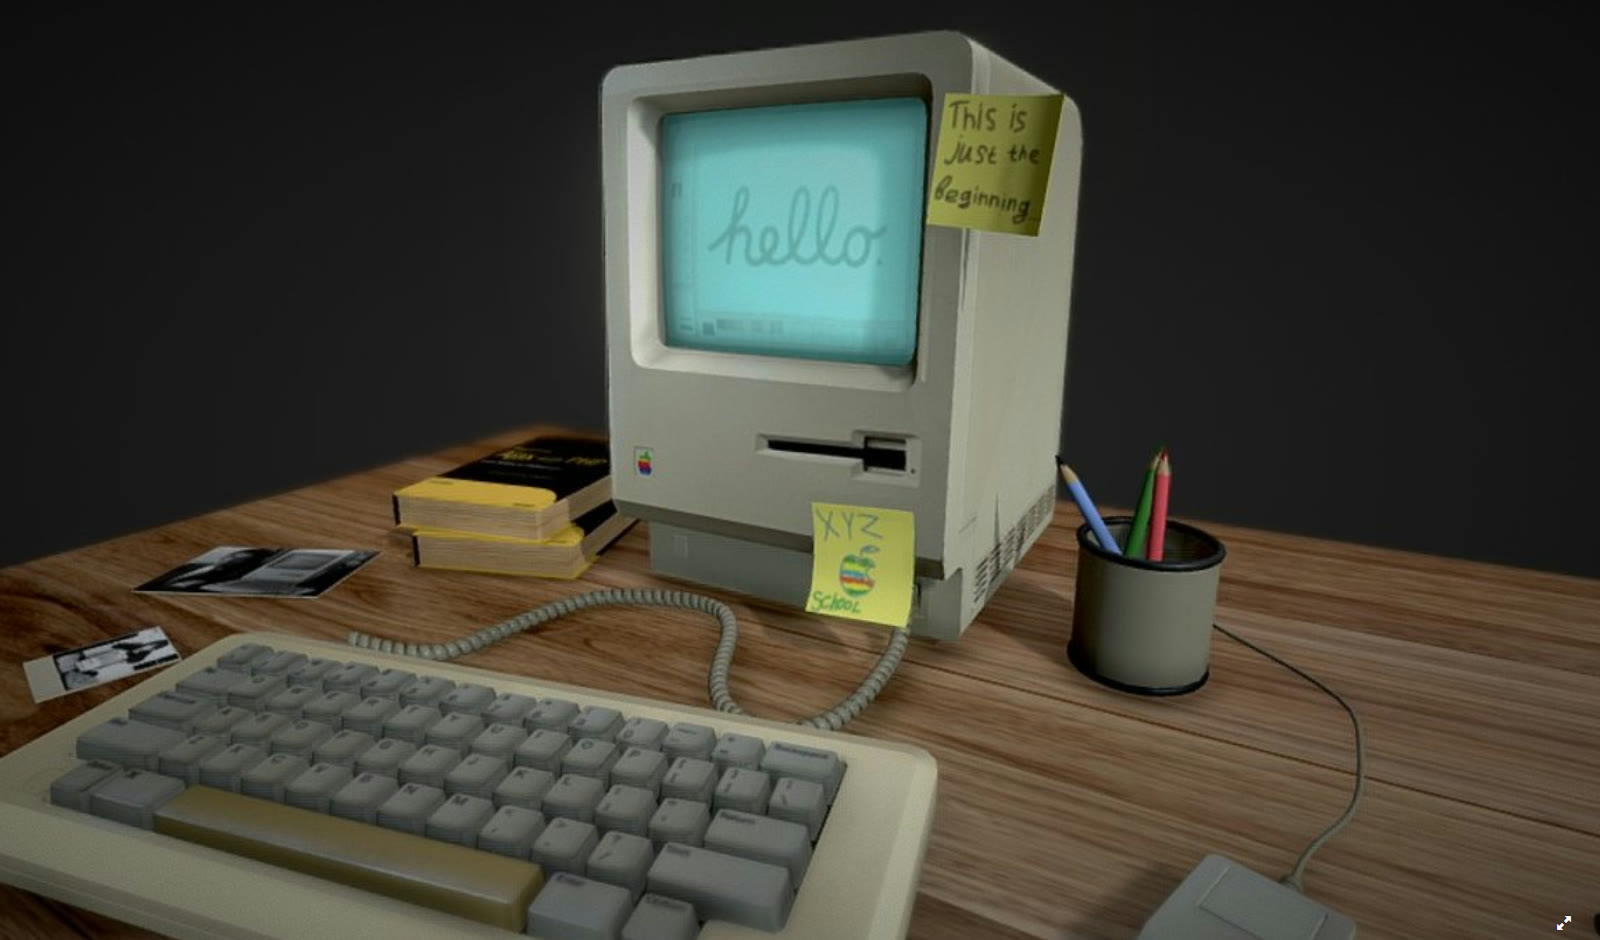
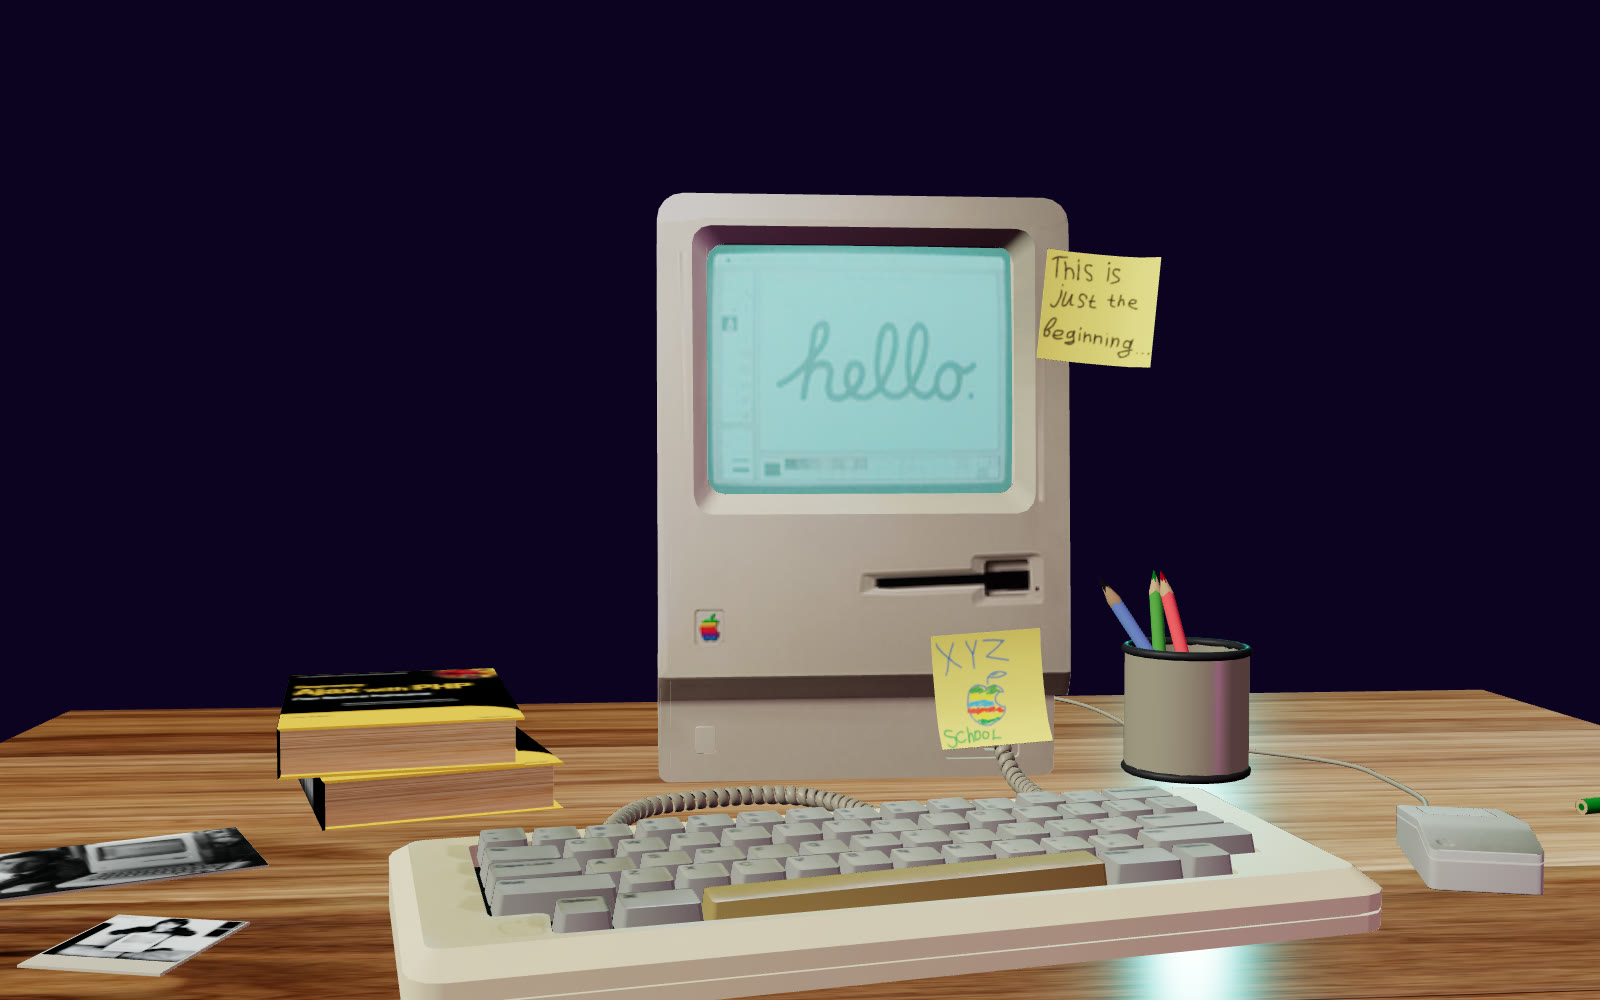
Self-render the Macintosh 128K scene with three.js
Loads the downloaded .glb directly with a locked custom camera and
our own lighting (neon cyan/pink rim lights matching the site), instead
of a Sketchfab screenshot. No watermark, full control over framing.

diff --git a/doom.html b/doom.html
@@ -19,14 +19,14 @@
   }
 
   .scene{
-    position:relative; width:900px; max-width:94vw; aspect-ratio:1600/940;
+    position:relative; width:900px; max-width:94vw; aspect-ratio:1600/1000;
     border-radius:10px; overflow:hidden;
     box-shadow:0 20px 60px rgba(0,0,0,.7), 0 0 45px var(--neon-pink);
   }
   .scene img{ position:absolute; inset:0; width:100%; height:100%; object-fit:cover; display:block; }
   .screen{
     position:absolute;
-    left:43.3%; top:11.8%; width:12%; height:27.5%;
+    left:44.1%; top:22.8%; width:19.1%; height:26.7%;
     background:#000; overflow:hidden;
   }
   .screen iframe{ position:absolute; inset:0; width:100%; height:100%; border:0; }

diff --git a/flappy-bird.html b/flappy-bird.html
@@ -25,14 +25,14 @@
   }
 
   .scene{
-    position:relative; width:900px; max-width:94vw; aspect-ratio:1600/940;
+    position:relative; width:900px; max-width:94vw; aspect-ratio:1600/1000;
     border-radius:10px; overflow:hidden;
     box-shadow:0 20px 60px rgba(0,0,0,.7), 0 0 45px var(--neon-cyan);
   }
   .scene img{ position:absolute; inset:0; width:100%; height:100%; object-fit:cover; display:block; }
   .screen{
     position:absolute;
-    left:43.3%; top:11.8%; width:12%; height:27.5%;
+    left:44.1%; top:22.8%; width:19.1%; height:26.7%;
     background:#000; overflow:hidden;
     display:flex; align-items:center; justify-content:center;
   }
